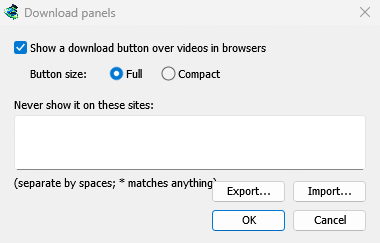
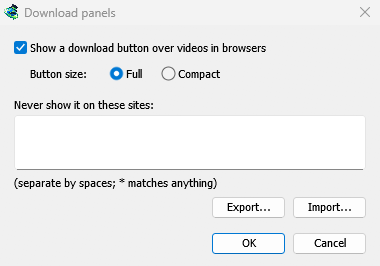
Download panels: the sites hint has its own row instead of running under Export... (#1288)

diff --git a/crates/app/src/options.rs b/crates/app/src/options.rs
@@ -3477,7 +3477,7 @@ impl OptionsDialog {
                     "opt-panels",
                     // i18n: window title: the download button the extension shows over videos
                     "Download panels",
-                    [380.0, 218.0],
+                    [380.0, 241.0],
                     false,
                     LIGHT_BG(),
                     |ui, o| {
@@ -3538,15 +3538,23 @@ impl OptionsDialog {
                             "panel-sites",
                             on,
                         );
-                        winui::text_in_window(
-                            ui,
+                        // On a row of its own, the list's width: beside Export... and Import... it
+                        // ran under them (English already, German further).
+                        let hint = crate::i18n::t(
+                            // i18n: under Download panels site exclusions list
+                            "(separate by spaces; * matches anything)",
+                        );
+                        let (rect, cut) = winui::text_fit(
                             &p,
                             o.x + 14.0,
                             o.y + 161.0,
-                            // i18n: under Download panels site exclusions list
-                            crate::i18n::t("(separate by spaces; * matches anything)"),
+                            hint,
                             LIGHT_TEXT(),
+                            o.x + 366.0,
                         );
+                        if cut {
+                            winui::full_on_hover(ui, rect, "opt-panels-hint", hint);
+                        }
                         // The list as a file, to keep or carry to a new installation (#424).
                         let [export_at, import_at] = winui::button_row(
                             &p,
@@ -3559,7 +3567,7 @@ impl OptionsDialog {
                         };
                         if winui::button_light(
                             ui,
-                            r(o, export_at.0, 156.0, export_at.1, 21.0),
+                            r(o, export_at.0, 172.0, export_at.1, 21.0),
                             "Export...",
                             ButtonKind::Normal,
                             false,
@@ -3576,7 +3584,7 @@ impl OptionsDialog {
                         }
                         if winui::button_light(
                             ui,
-                            r(o, import_at.0, 156.0, import_at.1, 21.0),
+                            r(o, import_at.0, 172.0, import_at.1, 21.0),
                             "Import...",
                             ButtonKind::Normal,
                             false,
@@ -3628,7 +3636,7 @@ impl OptionsDialog {
                             let (rect, cut) = winui::text_fit(
                                 &p,
                                 o.x + 14.0,
-                                o.y + 191.0,
+                                o.y + 187.0,
                                 &said,
                                 LIGHT_TEXT(),
                                 o.x + 205.0,
@@ -3637,7 +3645,7 @@ impl OptionsDialog {
                                 winui::full_on_hover(ui, rect, "opt-panels-said", &said);
                             }
                         }
-                        ok_cancel(ui, o, 212.0, 185.0, true)
+                        ok_cancel(ui, o, 212.0, 208.0, true)
                     },
                 );
                 match out {

diff --git a/CHANGELOG.md b/CHANGELOG.md
@@ -51,6 +51,7 @@ Each release's notes on GitHub come from its section here (`## [X.Y.Z]`, see
 
 ### Fixed
 
+- **Download panels** (Options → General → Edit...): the hint under the sites list, *(separate by spaces; \* matches anything)*, ran under the **Export...** button (further in German). It now has its own row under the list, and **Export...**, **Import...** and what they report sit on the row below it.
 - **A failed download says why in MDM's log too** (`mdm.log`), not only in its progress window: the site's name and the reason, such as yt-dlp's for a video (*HTTP Error 414: URI Too Long*). Addresses in the reason keep no query (`?…`), as those often carry a sign-in token, so the log can be attached to a report as it is ([#1262](https://github.com/anefzaoui/misterdownloadmanager/issues/1262)).
 - Linux (X11, and XWayland): with **Minimize to the notification area** on, **Minimize** left MDM's window in the taskbar's window list, minimized, beside its icon in the notification area (XFCE's window buttons, for one); so did closing the window from the window list while it was minimized. The window now leaves the list, as closing it does, and comes back from the icon ([#1255](https://github.com/anefzaoui/misterdownloadmanager/issues/1255)).
 - Linux: a crash is reported on computers whose processor doesn't offer XSAVE to programs (an older processor, or a virtual machine that doesn't pass it on). There the crash handler faulted a second time while it read the crash's details, so MDM ended without a crash report; it now reads only what the system gave it ([#1239](https://github.com/anefzaoui/misterdownloadmanager/issues/1239)).

diff --git a/ROADMAP.md b/ROADMAP.md
@@ -1361,6 +1361,8 @@ These ship in the next version.
   list, as closing it does ([#1255](https://github.com/anefzaoui/misterdownloadmanager/issues/1255))
 - ✅ A failed download says why in MDM's log too, with the site's name and no tokens
   ([#1262](https://github.com/anefzaoui/misterdownloadmanager/issues/1262))
+- ✅ Download panels: the hint under the sites list has its own row instead of running under
+  Export...
 
 ## Being worked on
 
